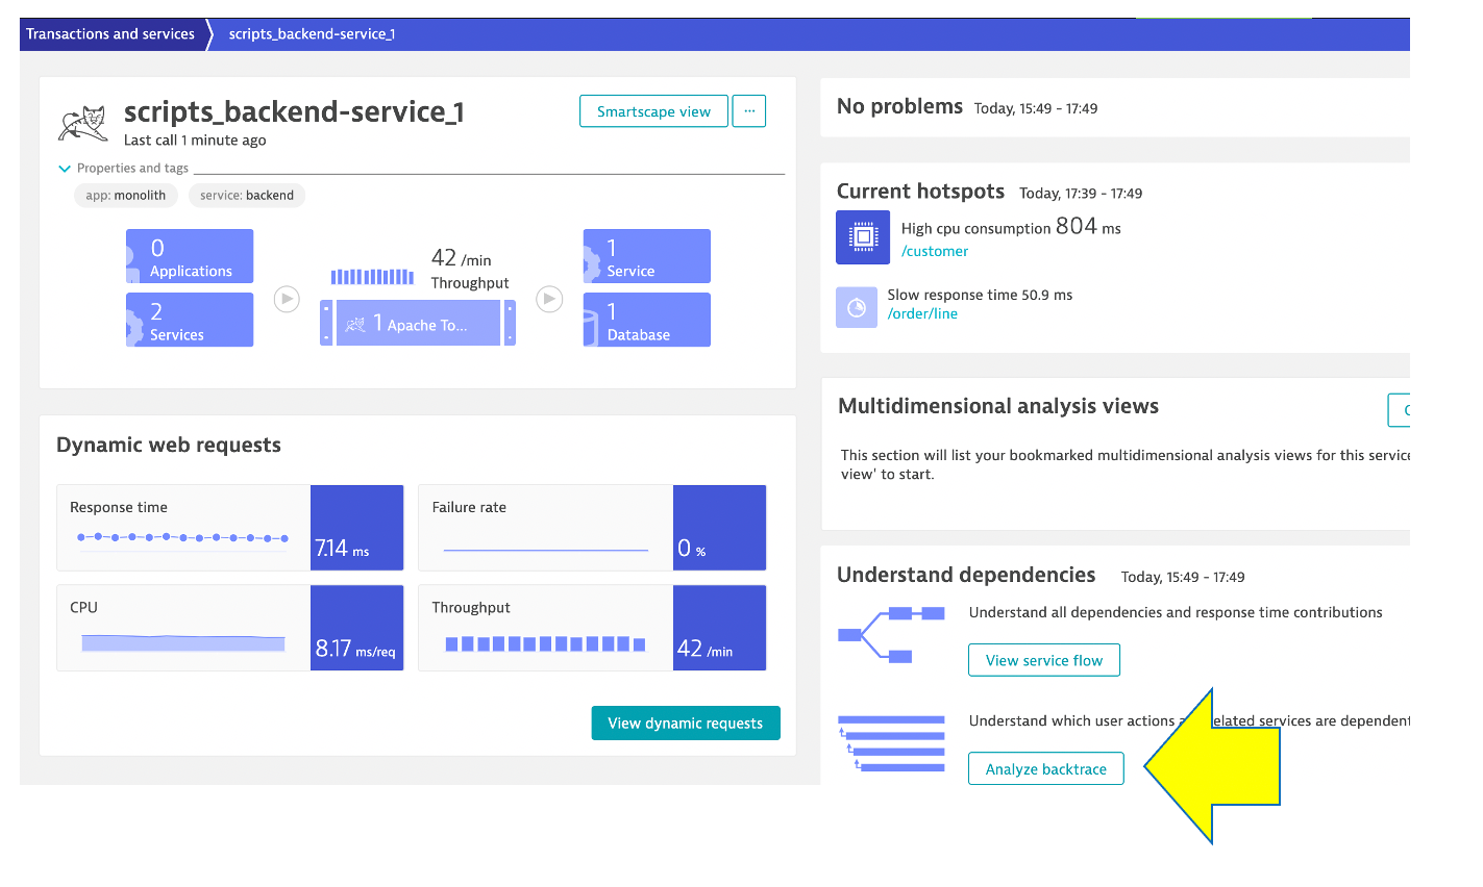
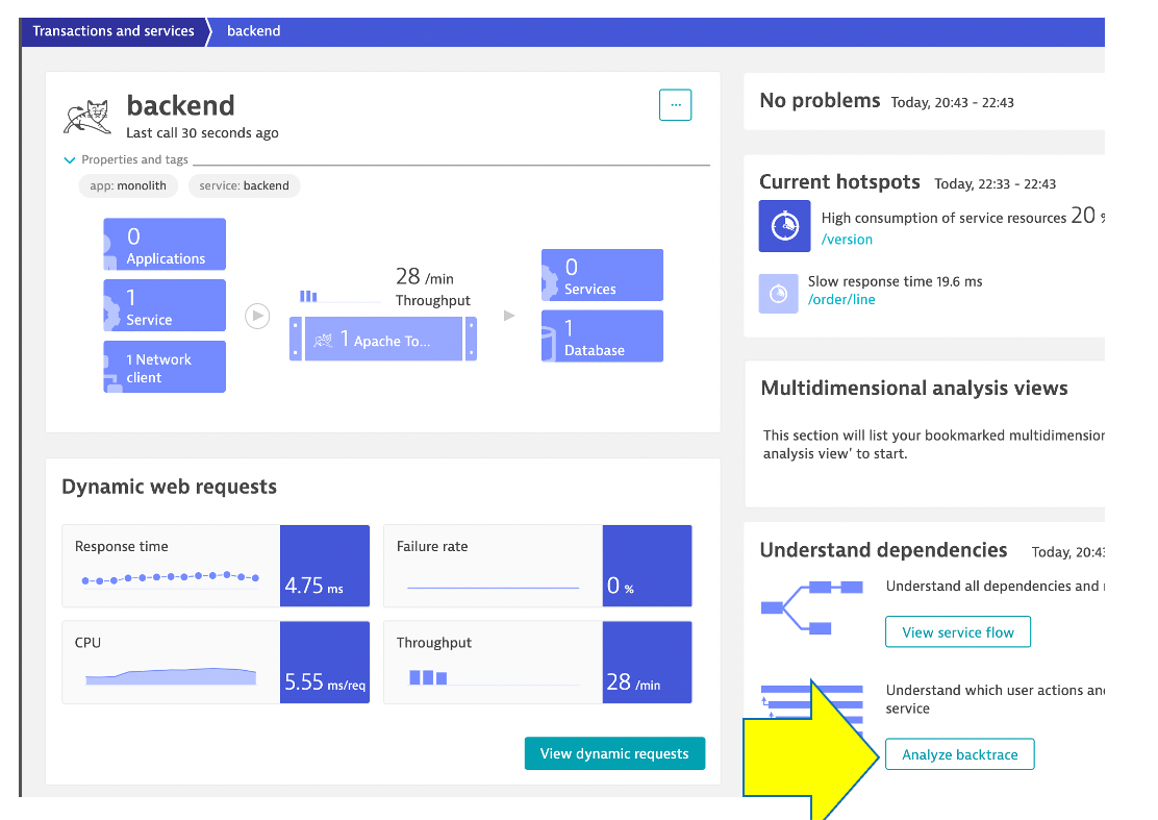
update images and add db content

diff --git a/cloudmigration/content/01_lab_1/08_backtrace/index.md b/cloudmigration/content/01_lab_1/08_backtrace/index.md
@@ -12,11 +12,11 @@ Using the service flow and service backtrace, these two tools give you a complet
 
 Let’s now take a look at the transactions and Services by clicking on the `Transactions and services` left side Dynatrace menu.
 
-Pick the `scripts_backend-scripts_1` service.
+Pick the `backend` service.
 
 ![image](../../../assets/images/lab1-trans-services-db.png)
 
-On the **scripts_backend-service_1** service, click on the **Analyze Backtrace** button.
+On the **backend** service, click on the **Analyze Backtrace** button.
 
 ![image](../../../assets/images/lab1-service-backtrace-arrow.png)
 
@@ -24,10 +24,9 @@ You should be on the service backtrace page where you will see information for t
 
 This will get more interesting in the next lab, but for the monolith backend, we can see that the backtrace is as follows:
 
-1 . The starting point is the **scripts_backend-service_1**
-
-2 . **scripts_backend-service_1** is called by the **scripts_front-end_1**
-
-3 . **scripts_front-end_1** is a where end user requests start and the user sessions get captured within the **My web application** by default
+1. The starting point is the `backend`
+1. `backend` is called by the `frontend` service
+1. `Apachejmeter` traffic from the load generator script
+1. `frontend` is a where end user requests start and the user sessions get captured within the `My web application` by default
 
 ![image](../../../assets/images/lab1-service-backtrace-arrows.png)

diff --git a/cloudmigration/content/02_lab_2/07_dashboard/index.md b/cloudmigration/content/02_lab_2/07_dashboard/index.md
@@ -1,3 +1,25 @@
 ## Before and After Dashboard
 
-<DAVE>
+From the left side menu in Dynatrace, pick the `dashboard` menu.
+
+On the dashboard page, click the `new dashboard` button.
+
+![image](../../../assets/images/lab2-dashboard.png)
+
+Provide a dashboard name like `Cloud Migration Success`
+
+On the blank dashboard page, click the settings.  Then click the `advanced settings` link to open then settings page
+
+![image](../../../assets/images/lab2-dashboard-settings.png)
+
+Referring to this picture, follow these steps:
+
+1. On the settings page, click the `dashboard JSON` menu.
+1. In the JSON window copy-n-paste this provide JSON into it
+1. Click the `Cloud Migration Success` bread crumb menu to go back to the dashboard page
+
+![image](../../../assets/images/lab2-dashboard-json.png)
+
+You should now see the dashboard
+
+![image](../../../assets/images/lab2-dashboard-view.png)

diff --git a/cloudmigration/content/03_lab_3/02_enable_order_problem/index.md b/cloudmigration/content/03_lab_3/02_enable_order_problem/index.md
@@ -1,4 +1,4 @@
-## Enable another problem
+## Enable order service problem
 
 Now we are going to look at `order-service` version 2 that causes two problems, but lets review the first one:
 * failure time issues on the `Click the Add Line to an Order (/order/line request)`
@@ -11,7 +11,6 @@ Run these commands to turn off the other problem and enable another one. we will
 Back in the SSH terminal, just run these commands.
 
 ```
-kubectl -n dt-orders set image deployment/customer customer=dtdemos/dt-orders-customer-service:1
 kubectl -n dt-orders set image deployment/order order=dtdemos/dt-orders-order-service:2
 ```
 

diff --git a/cloudmigration/content/03_lab_3/01_enable_customer_problem/index.md b/cloudmigration/content/03_lab_3/01_enable_customer_problem/index.md
@@ -1,4 +1,4 @@
-## Enable a problem
+## Enable customer service problem
 
 Various problem patterns that Dynatrace can detect are built into the sample application codebase so that we can easily simulate problems without redeploying the application.
 
@@ -65,4 +65,10 @@ Back on the problem page, click into the `visual resolution path` to see how the
 
 ![image](../../../assets/images/lab3-customer-problem-path.png)
 
+## Turn off the problem in Dynatrace
 
+Back in the SSH terminal, just run these commands.
+
+```
+kubectl -n dt-orders set image deployment/customer customer=dtdemos/dt-orders-customer-service:1
+```

diff --git a/cloudmigration/content/01_lab_1/07_services_and_transactions/index.md b/cloudmigration/content/01_lab_1/07_services_and_transactions/index.md
@@ -24,7 +24,9 @@ It should look like this:
 
 ![image](../../../assets/images/lab1-trans-services.png)
 
-From the `Dynamic Web Requests` section on the right, click the `view Dynamic Requests` button to see what it calls. 
+Choose the `frontend` service.
+
+On the `frontend` service page, find the `Dynamic Web Requests` section on the right and click the `view Dynamic Requests` button to see what it calls. 
 
 ![image](../../../assets/images/lab1-dynamic-requests-arrow.png)
 

diff --git a/cloudmigration/content/01_lab_1/05_process_and_services/index.md b/cloudmigration/content/01_lab_1/05_process_and_services/index.md
@@ -46,7 +46,7 @@ See more details in the [Dynatrace documentation](https://www.dynatrace.com/supp
 Now Let’s review a specific service.
 
 1. Click the **services** square above the host infographic to open the list of services
-1. From the list of services, choose the **scripts_backend-service_1**
+1. From the list of services, choose the **backend**
 
 ![image](../../../assets/images/lab1-process-view-list.png)
 

diff --git a/cloudmigration/content/01_lab_1/04_smartscape/index.md b/cloudmigration/content/01_lab_1/04_smartscape/index.md
@@ -22,6 +22,7 @@ Smartscape shows all the dependencies of a given service. Those include connecti
 
 Let’s see how Dynatrace can visualize these processes using Smartscape.
 
+1. Be sure you are on the `monolith` host page
 1. Just click on the `...` box on the to the right of the host name
 1. pick **Smartscape view** menu option
 1. this will open Smartscape filtered to this EC2 Instance

diff --git a/cloudmigration/content/01_lab_1/10_databases/index.md b/cloudmigration/content/01_lab_1/10_databases/index.md
@@ -18,7 +18,7 @@ Pick the `scripts_backend-scripts_1` service.
 
 ![image](../../../assets/images/lab1-trans-services-db.png)
 
-Now click on the **scripts_backend-service_1** database to open the database service page. 
+Now click on the `[embedded]` database to open the database service page. 
 
 ![image](../../../assets/images/lab1-pick-db.png)
 
